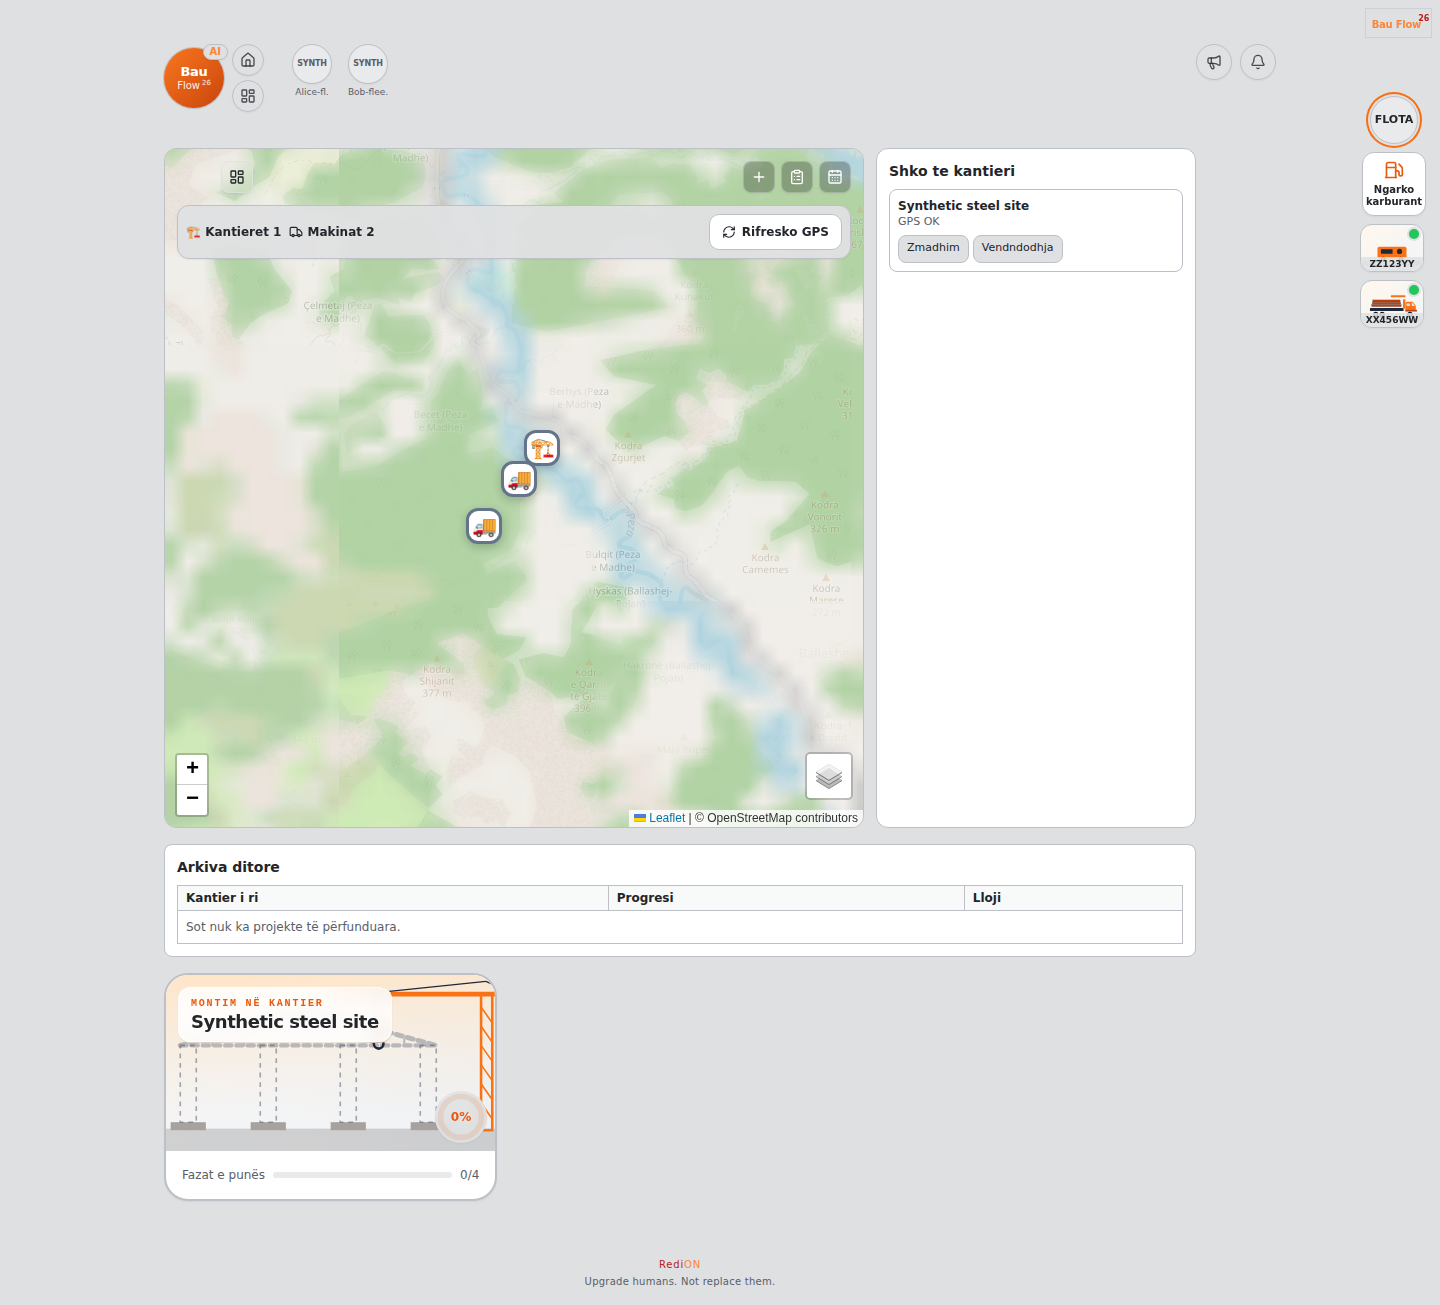
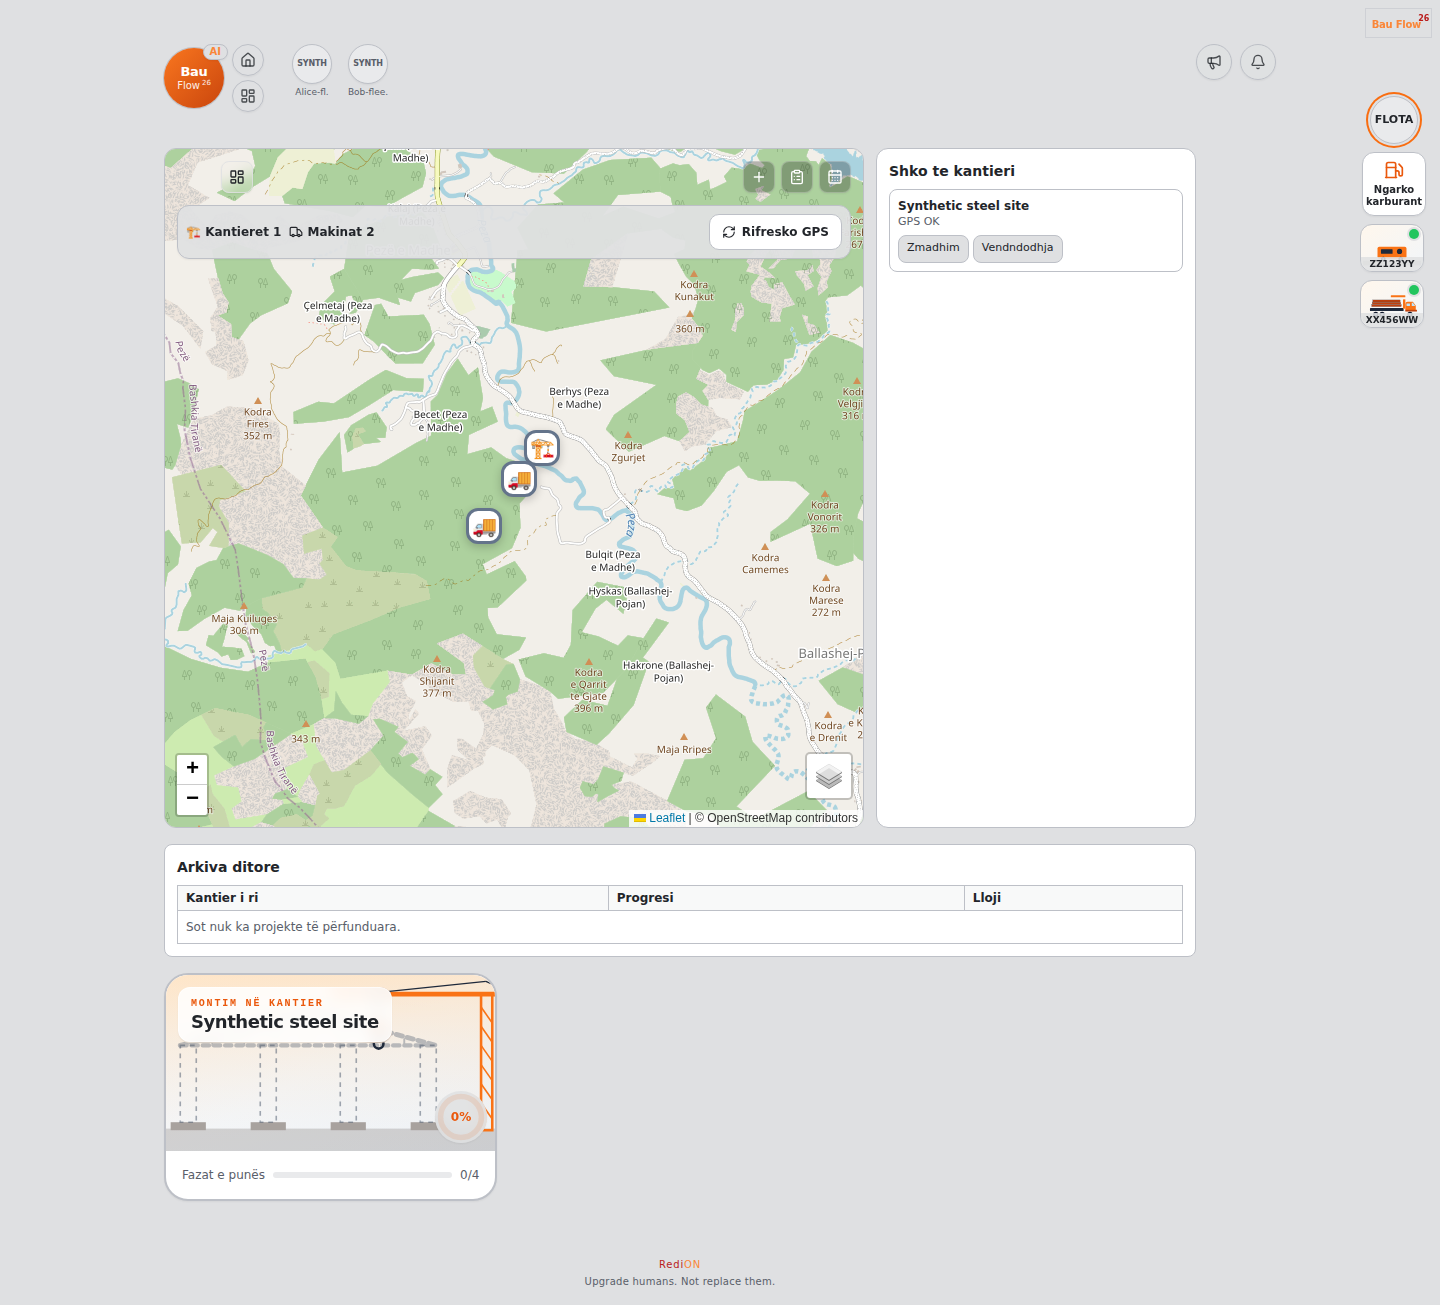
Unify fleet GPS clocks and refresh stable review captures

diff --git a/tests/e2e/fleet-map-fuel.spec.ts b/tests/e2e/fleet-map-fuel.spec.ts
@@ -206,6 +206,7 @@ test('fleet workflow: yellow/green confirmation → new vehicle → shared Workz
       ['phone', 390, 844],
     ] as const) {
       await page.setViewportSize({ width, height });
+      await expect(page.getByTestId('fleet-vehicle-card').first()).not.toContainText(/AM|PM/);
       await page.screenshot({
         path: info.outputPath(`fleet-overview-${label}.png`),
         fullPage: true,
@@ -229,14 +230,18 @@ test('fleet workflow: yellow/green confirmation → new vehicle → shared Workz
       ),
     ).toHaveText('🏗');
     await page.setViewportSize({ width: 1440, height: 1000 });
+    await page.waitForFunction(() => !document.querySelector('.leaflet-zoom-anim'));
     await page.screenshot({
       path: info.outputPath('fleet-workzone-map-desktop.png'),
       fullPage: true,
+      animations: 'disabled',
     });
     await page.setViewportSize({ width: 390, height: 844 });
+    await page.waitForFunction(() => !document.querySelector('.leaflet-zoom-anim'));
     await page.screenshot({
       path: info.outputPath('fleet-workzone-map-phone.png'),
       fullPage: true,
+      animations: 'disabled',
     });
     expect(
       await page.evaluate(

diff --git a/src/components/fleet/wanway-telemetry.tsx b/src/components/fleet/wanway-telemetry.tsx
@@ -9,6 +9,7 @@ import type { readFleet } from '@/lib/fleet/wanway/service';
 import { wanwayCopy, wanwayError } from '@/lib/fleet/wanway/copy';
 import { wanwayAction } from '@/app/(admin)/app/settings/integrations/wanway/actions';
 import { Button } from '@/components/ui/button';
+import { fleetTime } from '@/lib/fleet/format';
 
 const Map = dynamic(() => import('./wanway-map'), { ssr: false });
 type Snapshot = Awaited<ReturnType<typeof readFleet>>[number];
@@ -30,7 +31,7 @@ export function WanwayTelemetry({
   const [pending, start] = useTransition();
   const router = useRouter();
   const date = (s: string | null) =>
-    s ? new Date(s).toLocaleString(lang) : '—';
+    s ? fleetTime(s, 'Europe/Berlin', true) : '—';
   const hasPosition = d.lat !== null && d.lng !== null && d.reportedAt !== null;
   if (compact)
     return (

diff --git a/src/app/(admin)/app/fleet-gps/page.tsx b/src/app/(admin)/app/fleet-gps/page.tsx
@@ -120,7 +120,7 @@ export default async function FleetGpsPage() {
                   {point ? (point.stale ? c.stale : c.lastKnown) : c.noGps}
                 </p>
               )}
-              {point && (
+              {point && !device && (
                 <p className="mt-2 text-xs text-muted-foreground">
                   {c.lastReport}:{' '}
                   {fleetTime(point.reportedAt, 'Europe/Berlin', true)}
